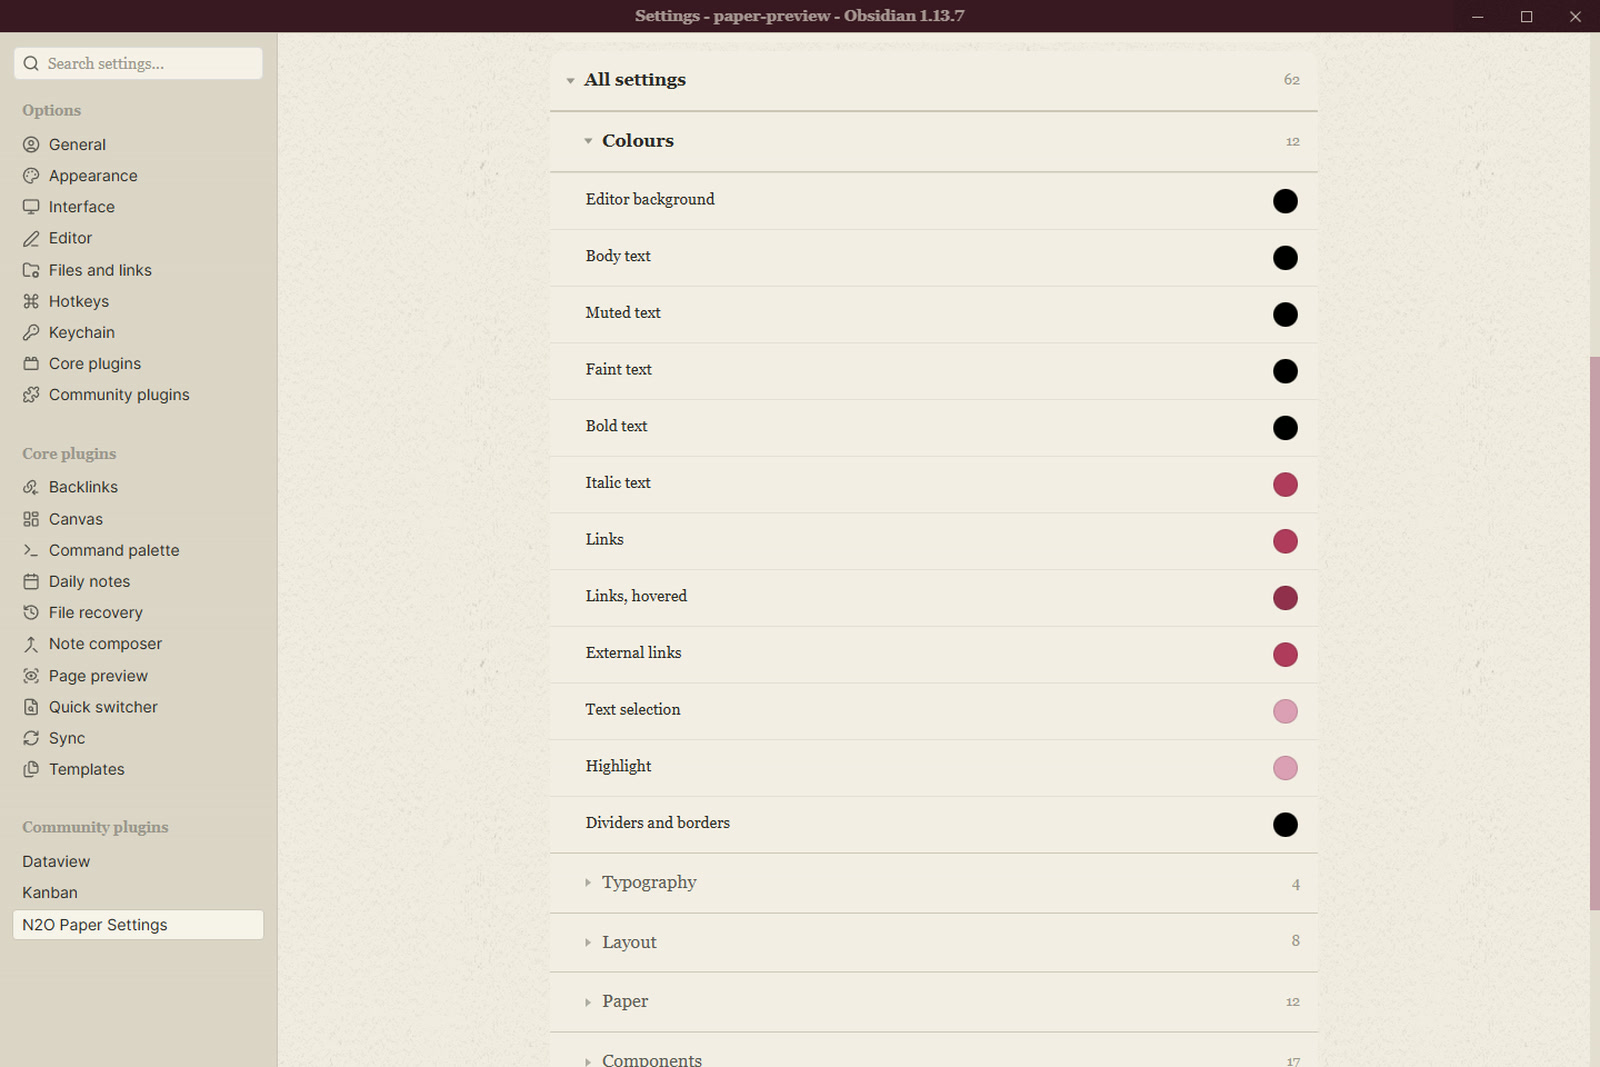
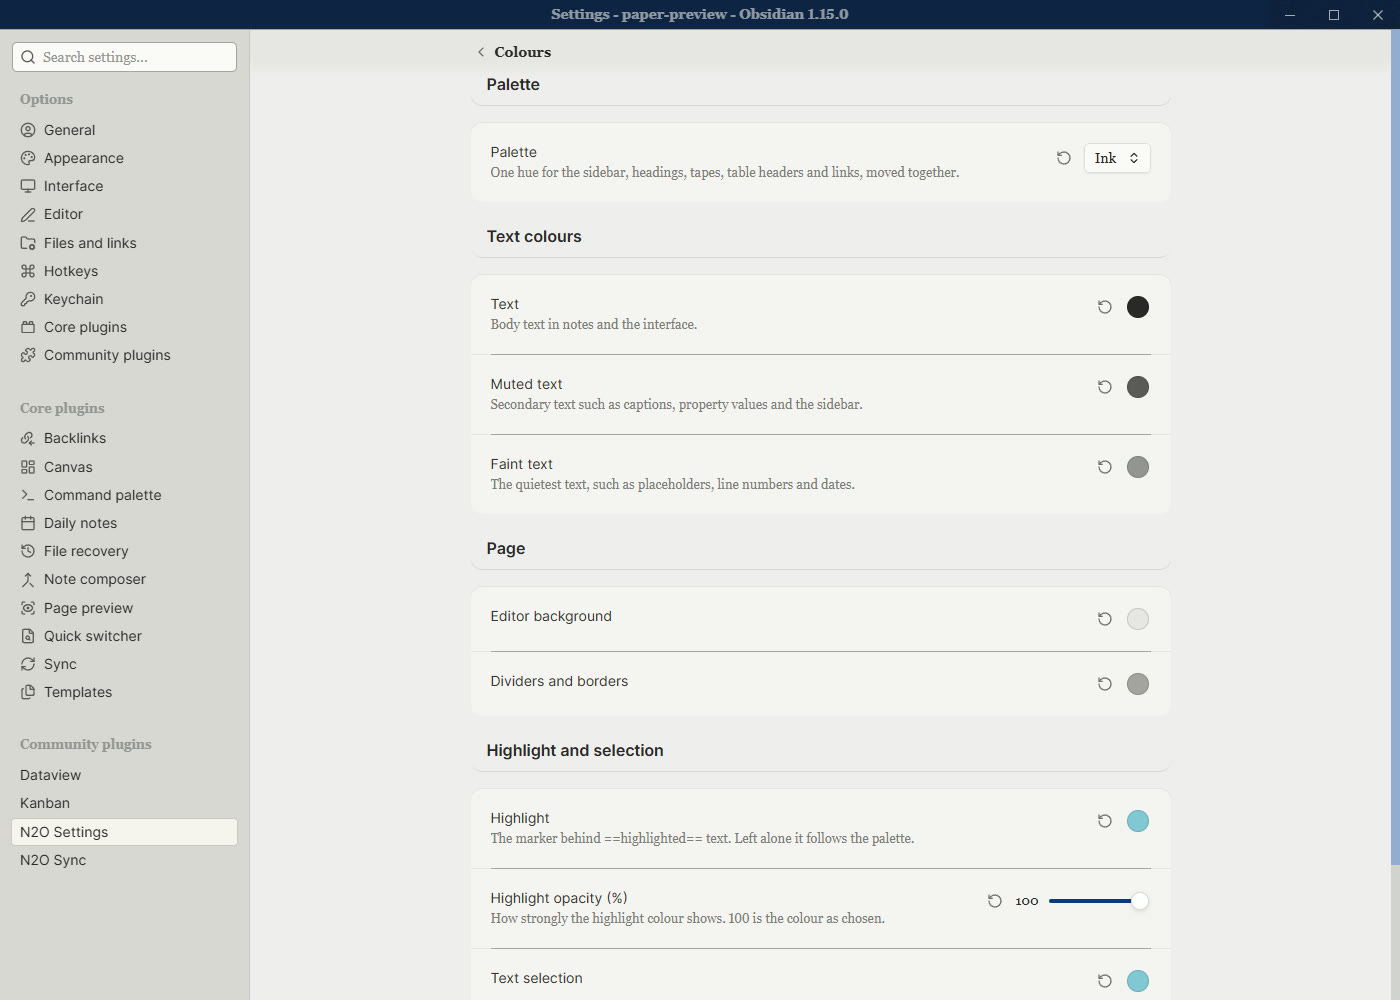
docs: README and screenshots for N2O Settings 1.2.0

diff --git a/README.md b/README.md
@@ -1,19 +1,19 @@
 <p align="center">
-  <img src="https://n2osync.com/logo-square.png" alt="N2O Paper Settings" width="110" />
+  <img src="https://n2osync.com/logo-square.png" alt="N2O Settings" width="110" />
 </p>
 
-<h1 align="center">N2O Paper Settings</h1>
+<h1 align="center">N2O Settings</h1>
 
 <p align="center">
-  <strong>Every control the N2O Paper theme has, as a settings tab.</strong><br/>
-  Palette, fonts, paper, callouts, code and the interface. 110 controls, searchable, with live colour swatches.
+  <strong>The settings tab for the N2O Paper theme.</strong><br/>
+  134 controls on 12 pages, a short list of quick choices up front, looks you can save, and every control findable from Obsidian's own settings search.
 </p>
 
 <p align="center">
   <a href="https://github.com/n2osync/n2o-paper-settings/releases/latest"><img src="https://img.shields.io/github/v/release/n2osync/n2o-paper-settings?style=flat-square&sort=semver&label=version" alt="Latest release"></a>
   <img src="https://img.shields.io/badge/dynamic/json?logo=obsidian&color=%23483699&label=downloads&query=%24%5B%22n-two-o-paper-settings%22%5D.downloads&url=https%3A%2F%2Fraw.githubusercontent.com%2Fobsidianmd%2Fobsidian-releases%2Fmaster%2Fcommunity-plugin-stats.json&style=flat-square" alt="Obsidian downloads">
   <img src="https://img.shields.io/badge/license-MIT-green?style=flat-square" alt="MIT licence">
-  <img src="https://img.shields.io/badge/Obsidian-1.5%2B-7c3aed?style=flat-square" alt="Obsidian 1.5+">
+  <img src="https://img.shields.io/badge/Obsidian-1.13%2B-7c3aed?style=flat-square" alt="Obsidian 1.13+">
 </p>
 
 <p align="center">
@@ -24,95 +24,191 @@
 </p>
 
 <p align="center">
-  <img src="https://raw.githubusercontent.com/n2osync/n2o-paper-settings/main/images/settings.gif" alt="Changing the palette of the N2O Paper theme from the settings tab in Obsidian" width="820" />
+  <img src="https://raw.githubusercontent.com/n2osync/n2o-paper-settings/main/images/settings.gif" alt="Cycling through the seven N2O Paper palettes in Obsidian" width="820" />
 </p>
 
 ---
 
-> **Not an Obsidian product.** N2O Paper Settings is an independent plugin. It is
+> **Not an Obsidian product.** N2O Settings is an independent plugin. It is
 > not made by, endorsed by, or affiliated with Obsidian.
 
 <p align="center">
-  <img src="https://raw.githubusercontent.com/n2osync/n2o-paper-settings/main/images/top.jpg" alt="The settings tab" width="720" />
+  <img src="https://raw.githubusercontent.com/n2osync/n2o-paper-settings/main/images/top.jpg" alt="The first screen of the N2O Settings tab: preset, palette, flat paper, column width, coil binding, font set, text size and callout style" width="720" />
 </p>
 
 ## What it does
 
-A theme is CSS and cannot draw a settings tab, so this plugin reads the controls
-N2O Paper declares and renders them: 110 of them, grouped the way the theme
-groups them, with a search box, live colour swatches, and export and import.
+An Obsidian theme is CSS and cannot draw a settings tab. N2O Paper lists its
+controls, and this plugin turns them into one. The theme is complete without
+it; install it when you want to change something.
+
+- **Quick choices first.** The tab opens on the eight things most people
+  change: preset, palette, flat paper, column width, coil binding, font set,
+  text size and callout style.
+- **Looks.** Three built in (Reading, Writing, Plain), plus any you save.
+- **12 pages** for everything else, grouped under four headings.
+- **Search.** Obsidian's settings search finds every control.
+- **Commands and a status-bar menu** for switching without opening settings.
+- **A picture menu.** Right-click a picture to resize it or set its flags.
+- **Export, import and reset**, with a reset button on every row.
+
+Every value syncs with the vault. Nothing is kept per device.
+
+The plugin only paints while N2O Paper is the active theme and Obsidian is in
+light mode. Switch theme and it applies nothing; your values wait for you to
+switch back.
+
+## Looks and quick switching
 
 <p align="center">
-  <img src="https://raw.githubusercontent.com/n2osync/n2o-paper-settings/main/images/settings.gif" alt="Switching palettes from the settings tab" width="720" />
+  <img src="https://raw.githubusercontent.com/n2osync/n2o-paper-settings/main/images/looks.jpg" alt="The Choose a look picker with Reading, Writing and Plain" width="720" />
 </p>
 
-**Looks** holds the palette, the heading colours and the paper feel.
+A look is a set of choices you put on in one go. Reading, Writing and Plain set
+only the quick choices and keep anything you tuned on the pages. Change one of
+those choices and the preset row reads Custom.
+
+**Save current look...** keeps everything you have changed as a look of your
+own. It then shows up in the same list, and you can rename or delete it there.
+
+The command palette has these (no hotkeys are set for you):
+
+- Choose a look...
+- Apply look 1, 2 and 3
+- Cycle palette
+- Toggle flat paper
+- Toggle coil binding
+- Cycle column width
+- Toggle callout style
+
+Left-click the palette icon in the status bar for the same switches, with a
+tick next to what is on.
 
 <p align="center">
-  <img src="https://raw.githubusercontent.com/n2osync/n2o-paper-settings/main/images/looks.jpg" alt="Looks" width="720" />
+  <img src="https://raw.githubusercontent.com/n2osync/n2o-paper-settings/main/images/status.jpg" alt="The status-bar menu with looks, palettes, flat paper, coil binding and plain callouts" width="460" />
 </p>
 
-**Colours** covers every ink on the page, each with a swatch you can see change.
+## Pages and search
+
+Everything past the quick choices sits on 12 pages under four headings:
+
+| Heading | Pages |
+| --- | --- |
+| Colour and paper | Colours, Paper and desk |
+| Text | Text, Headings |
+| Blocks | Callouts and quotes, Lists and tasks, Tables, Code, Pictures |
+| Window and the rest | Window and sidebars, Synced from Notion, Accessibility |
+
+Each page row says how many of its values you have changed.
+
+Type in Obsidian's own settings search box and every control comes up, by its
+name, its description, or the words for what it looks like. "torn" finds the
+callout styles; "spine" finds the window frame.
 
 <p align="center">
-  <img src="https://raw.githubusercontent.com/n2osync/n2o-paper-settings/main/images/colours.jpg" alt="Colours" width="720" />
+  <img src="https://raw.githubusercontent.com/n2osync/n2o-paper-settings/main/images/search.jpg" alt="Obsidian's settings search finding the callout controls for the word torn" width="720" />
 </p>
 
-**Typography** sets the page serif, the interface sans, the mono for code, and
-the sizes.
+**Colours** holds the palette and every ink on the page, each with a swatch.
 
 <p align="center">
-  <img src="https://raw.githubusercontent.com/n2osync/n2o-paper-settings/main/images/typography.jpg" alt="Typography" width="720" />
+  <img src="https://raw.githubusercontent.com/n2osync/n2o-paper-settings/main/images/colours.jpg" alt="The Colours page" width="720" />
 </p>
 
-**Layout** is the measure, the margins and the spacing.
+**Paper and desk** is the sheet, its texture and light, and the desk around it.
 
 <p align="center">
-  <img src="https://raw.githubusercontent.com/n2osync/n2o-paper-settings/main/images/layout.jpg" alt="Layout" width="720" />
+  <img src="https://raw.githubusercontent.com/n2osync/n2o-paper-settings/main/images/paper.jpg" alt="The Paper and desk page" width="720" />
 </p>
 
-**Paper** is the grain, the light, the drift and the softbox over the desk.
+**Text** sets the fonts, the text size, emphasis and links.
 
 <p align="center">
-  <img src="https://raw.githubusercontent.com/n2osync/n2o-paper-settings/main/images/paper.jpg" alt="Paper" width="720" />
+  <img src="https://raw.githubusercontent.com/n2osync/n2o-paper-settings/main/images/typography.jpg" alt="The Text page" width="720" />
 </p>
 
-**Components** covers callouts, tables, tasks, tags, embeds and the rest.
+**Callouts and quotes** picks between torn scraps, flat boxes, cards and quiet
+callouts.
 
 <p align="center">
-  <img src="https://raw.githubusercontent.com/n2osync/n2o-paper-settings/main/images/components.jpg" alt="Components" width="720" />
+  <img src="https://raw.githubusercontent.com/n2osync/n2o-paper-settings/main/images/components.jpg" alt="The Callouts and quotes page" width="720" />
 </p>
 
-**Code** colours the syntax, one token at a time.
+**Code** sets the code theme, the code font and its size.
 
 <p align="center">
-  <img src="https://raw.githubusercontent.com/n2osync/n2o-paper-settings/main/images/code.jpg" alt="Code" width="720" />
+  <img src="https://raw.githubusercontent.com/n2osync/n2o-paper-settings/main/images/code.jpg" alt="The Code page" width="720" />
 </p>
 
-**Advanced** holds the twin controls, the fine numbers behind the presets.
+**Window and sidebars** covers the frame, the sidebars, tabs and scrollbars.
 
 <p align="center">
-  <img src="https://raw.githubusercontent.com/n2osync/n2o-paper-settings/main/images/advanced.jpg" alt="Advanced" width="720" />
+  <img src="https://raw.githubusercontent.com/n2osync/n2o-paper-settings/main/images/layout.jpg" alt="The Window and sidebars page" width="720" />
 </p>
 
-## Apply to
+## Pictures menu
 
-By default the plugin paints only while N2O Paper is the selected theme. Switch
-to another theme and it applies nothing, and your values are kept for the switch
-back. You can point it at a different installed theme, or at every theme.
+Right-click a picture in reading view or live preview. Along with copy, open,
+rename and delete, the menu has:
 
-## Export and import
+- **Resize** by a percent of its current width (50%, 75%, 150%), or to a pixel
+  width with Resize to...
+- **The theme's picture flags:** no print mount, aged print, round, float left
+  and float right.
 
-Export writes every value you have changed to the clipboard. Import puts them
-back. Reset asks first.
+<p align="center">
+  <img src="https://raw.githubusercontent.com/n2osync/n2o-paper-settings/main/images/pictures.jpg" alt="Right-click menu on a picture in reading view with resize and flag items" width="720" />
+</p>
+
+## A different font for one note
+
+Run **Set the font for this note** from the command palette and pick one. Five
+faces ship with the theme: Inter, IBM Plex, Fira Code, iA Writer Quattro, and
+whatever you have set vault-wide.
+
+It writes Obsidian's own `cssclasses` property, which means the choice lives in
+the note rather than in this plugin. It travels with the note through renames,
+moves, backups and git, it survives an N2O Sync without ever reaching Notion,
+and it keeps working if you uninstall this plugin. Any `cssclasses` you already
+had on the note are left alone.
+
+## Export, import and reset
+
+<p align="center">
+  <img src="https://raw.githubusercontent.com/n2osync/n2o-paper-settings/main/images/advanced.jpg" alt="The foot of the settings tab with Export, Import and Reset all" width="720" />
+</p>
+
+- **Export** copies only the values you have changed, plus your saved looks, to
+  the clipboard.
+- **Import** reads an export from the clipboard and asks whether to merge it
+  with your values or replace them.
+- **Reset all** asks first, then puts every control back to the theme default.
+  Your saved looks stay.
+- Every row also has its own reset button, which lights up once you change it.
+
+## Automatic theme install
+
+N2O Settings goes online only for the two things below, and sends nothing about you or your notes.
+
+- **N2O Paper, on first load.** The first time this plugin loads in a vault that does not have
+  the N2O Paper theme, it downloads the latest N2O Paper release from GitHub
+  (github.com/n2osync/n2o-paper), checks the files, installs the theme and makes it the
+  vault's active theme. It does this once per vault. If it cannot reach GitHub, it does not
+  try again; the button in the settings tab does the same by hand. You can switch back to any
+  theme in Settings, Appearance.
+- **N2O Sync, only when you click Install.** The settings tab shows a card for N2O Sync, our
+  plugin for syncing Notion and Obsidian. Clicking Install downloads N2O Sync's latest release
+  from GitHub (github.com/n2osync/n2o), installs and turns it on, turns off N2O Lite if you
+  have it, and writes a small install-source.json file into N2O Sync's folder noting that it
+  was installed from here. Nothing is downloaded unless you click.
 
 ## Install
 
-Settings > Community plugins > Browse, then search for N2O Paper Settings.
+Settings > Community plugins > Browse, then search for N2O Settings.
 
 To install it by hand, download `main.js`, `manifest.json` and `styles.css` from
-the latest release into `<vault>/.obsidian/plugins/n2o-paper-settings/`, then
-turn it on in Community plugins.
+the latest release into `<vault>/.obsidian/plugins/n-two-o-paper-settings/`, then
+turn it on in Community plugins. It needs Obsidian 1.13 or newer.
 
 ## Licence
 
